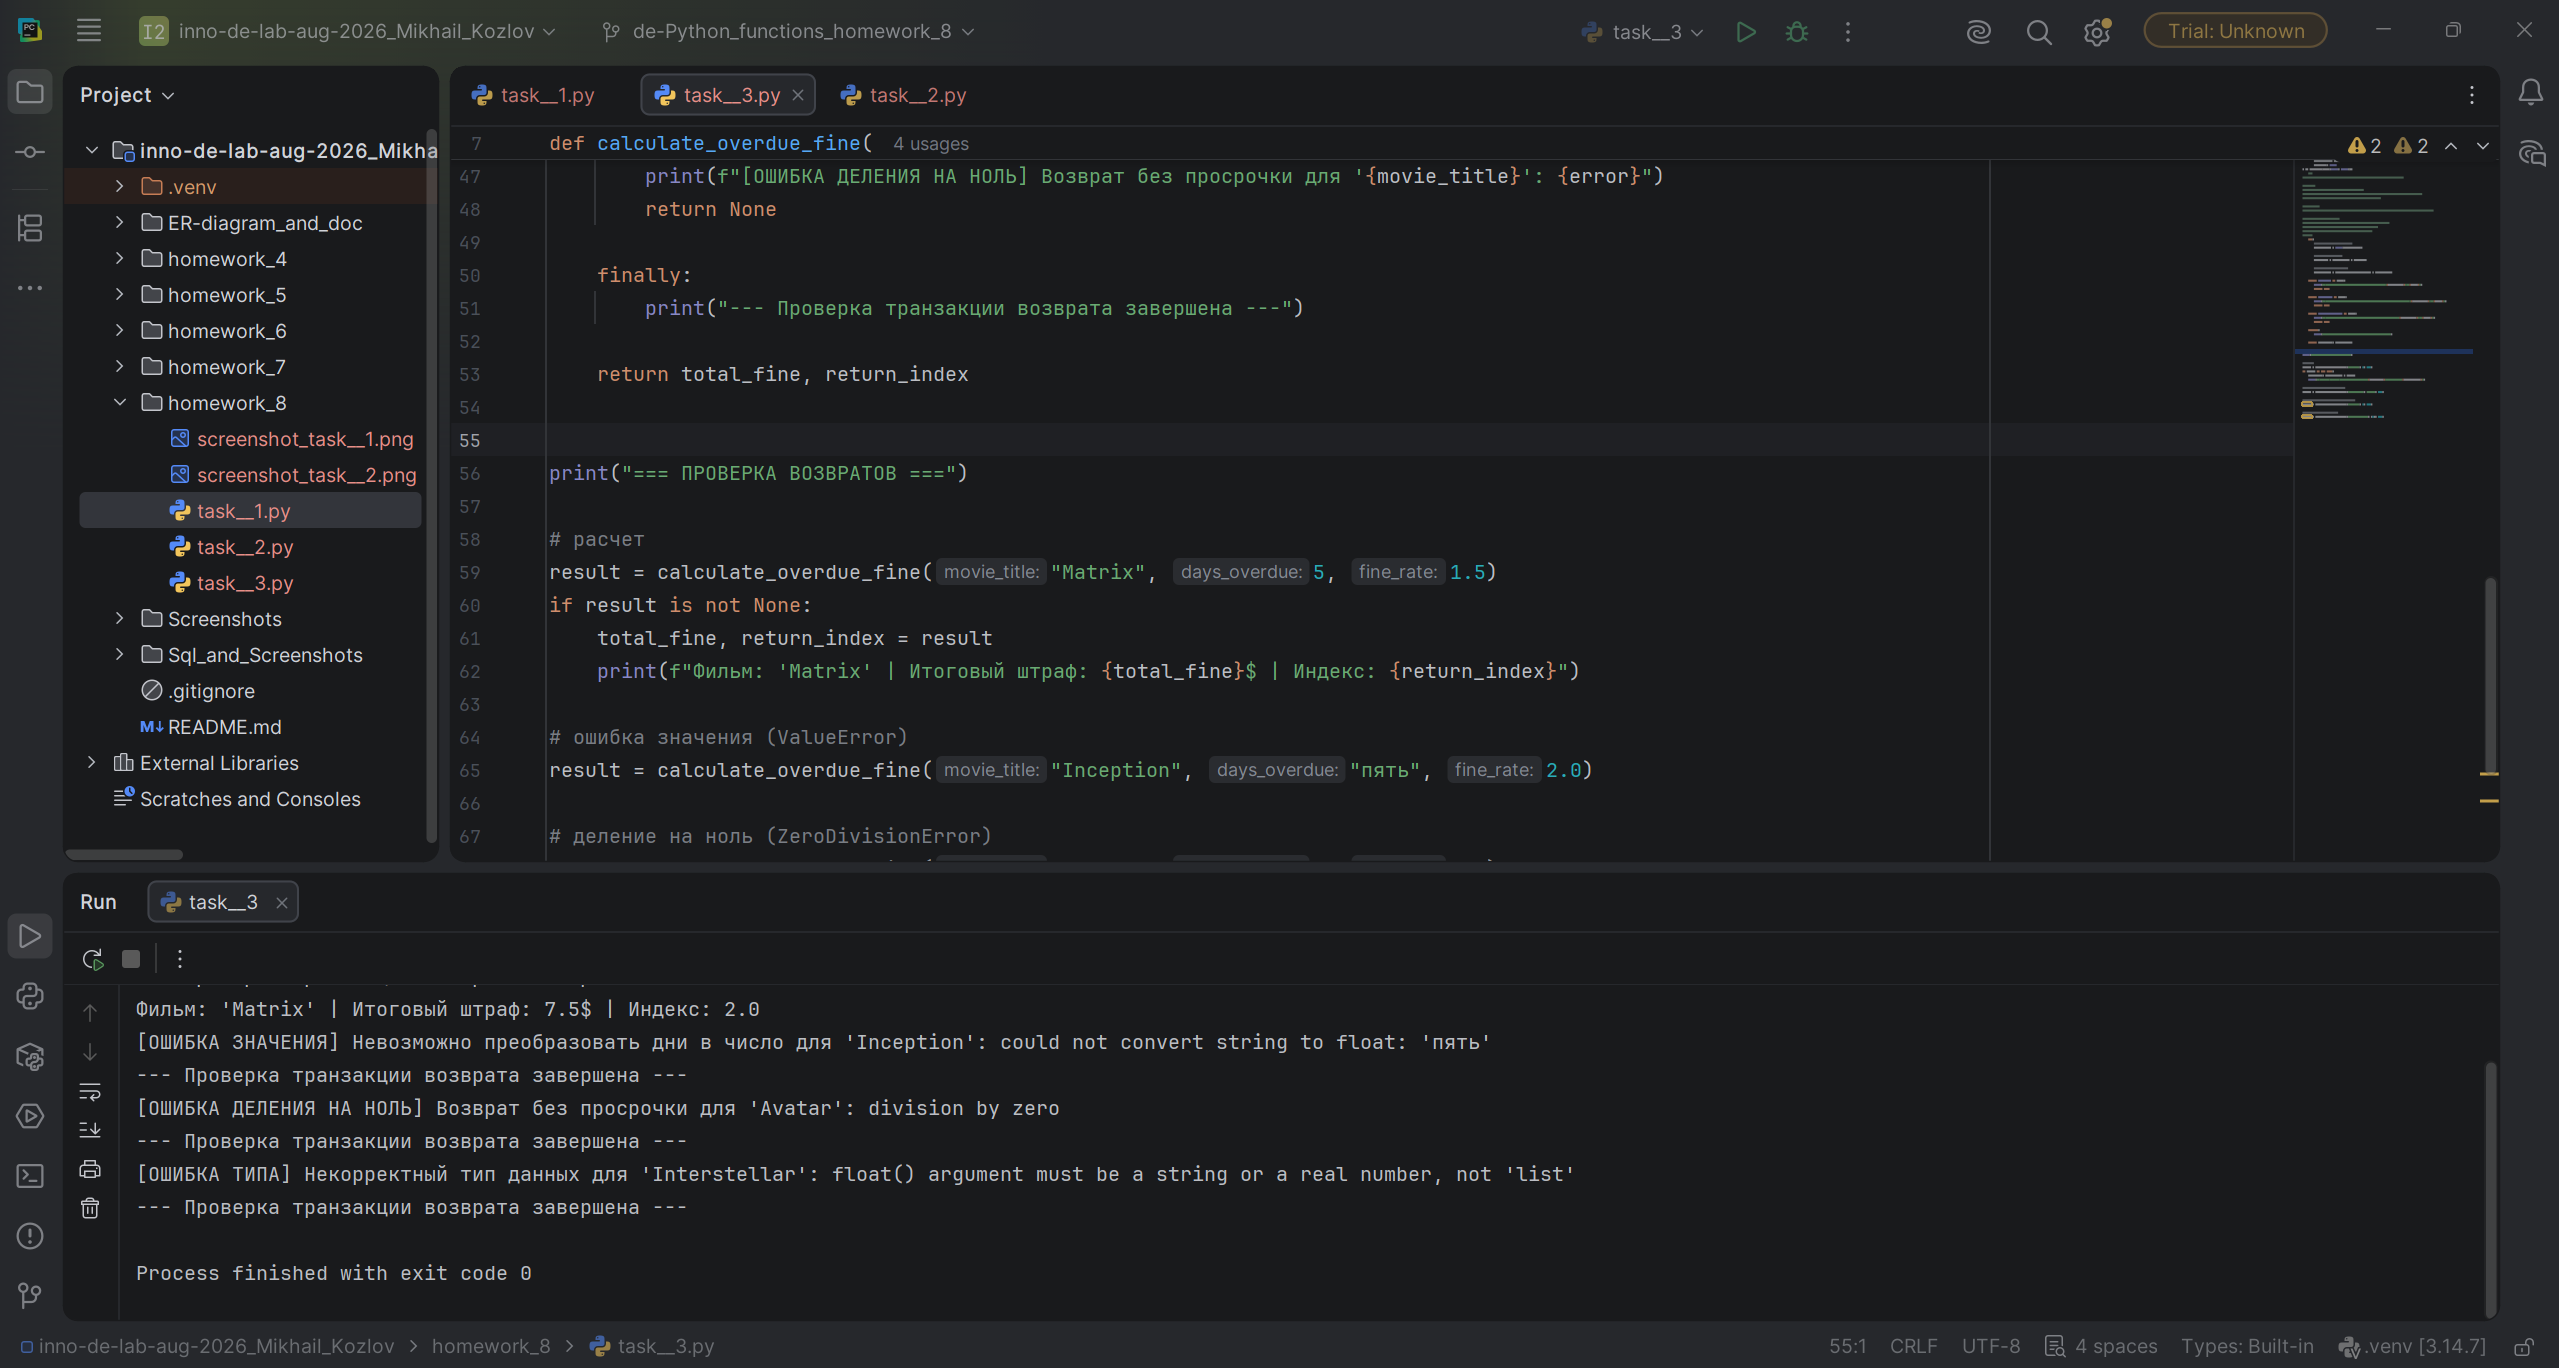
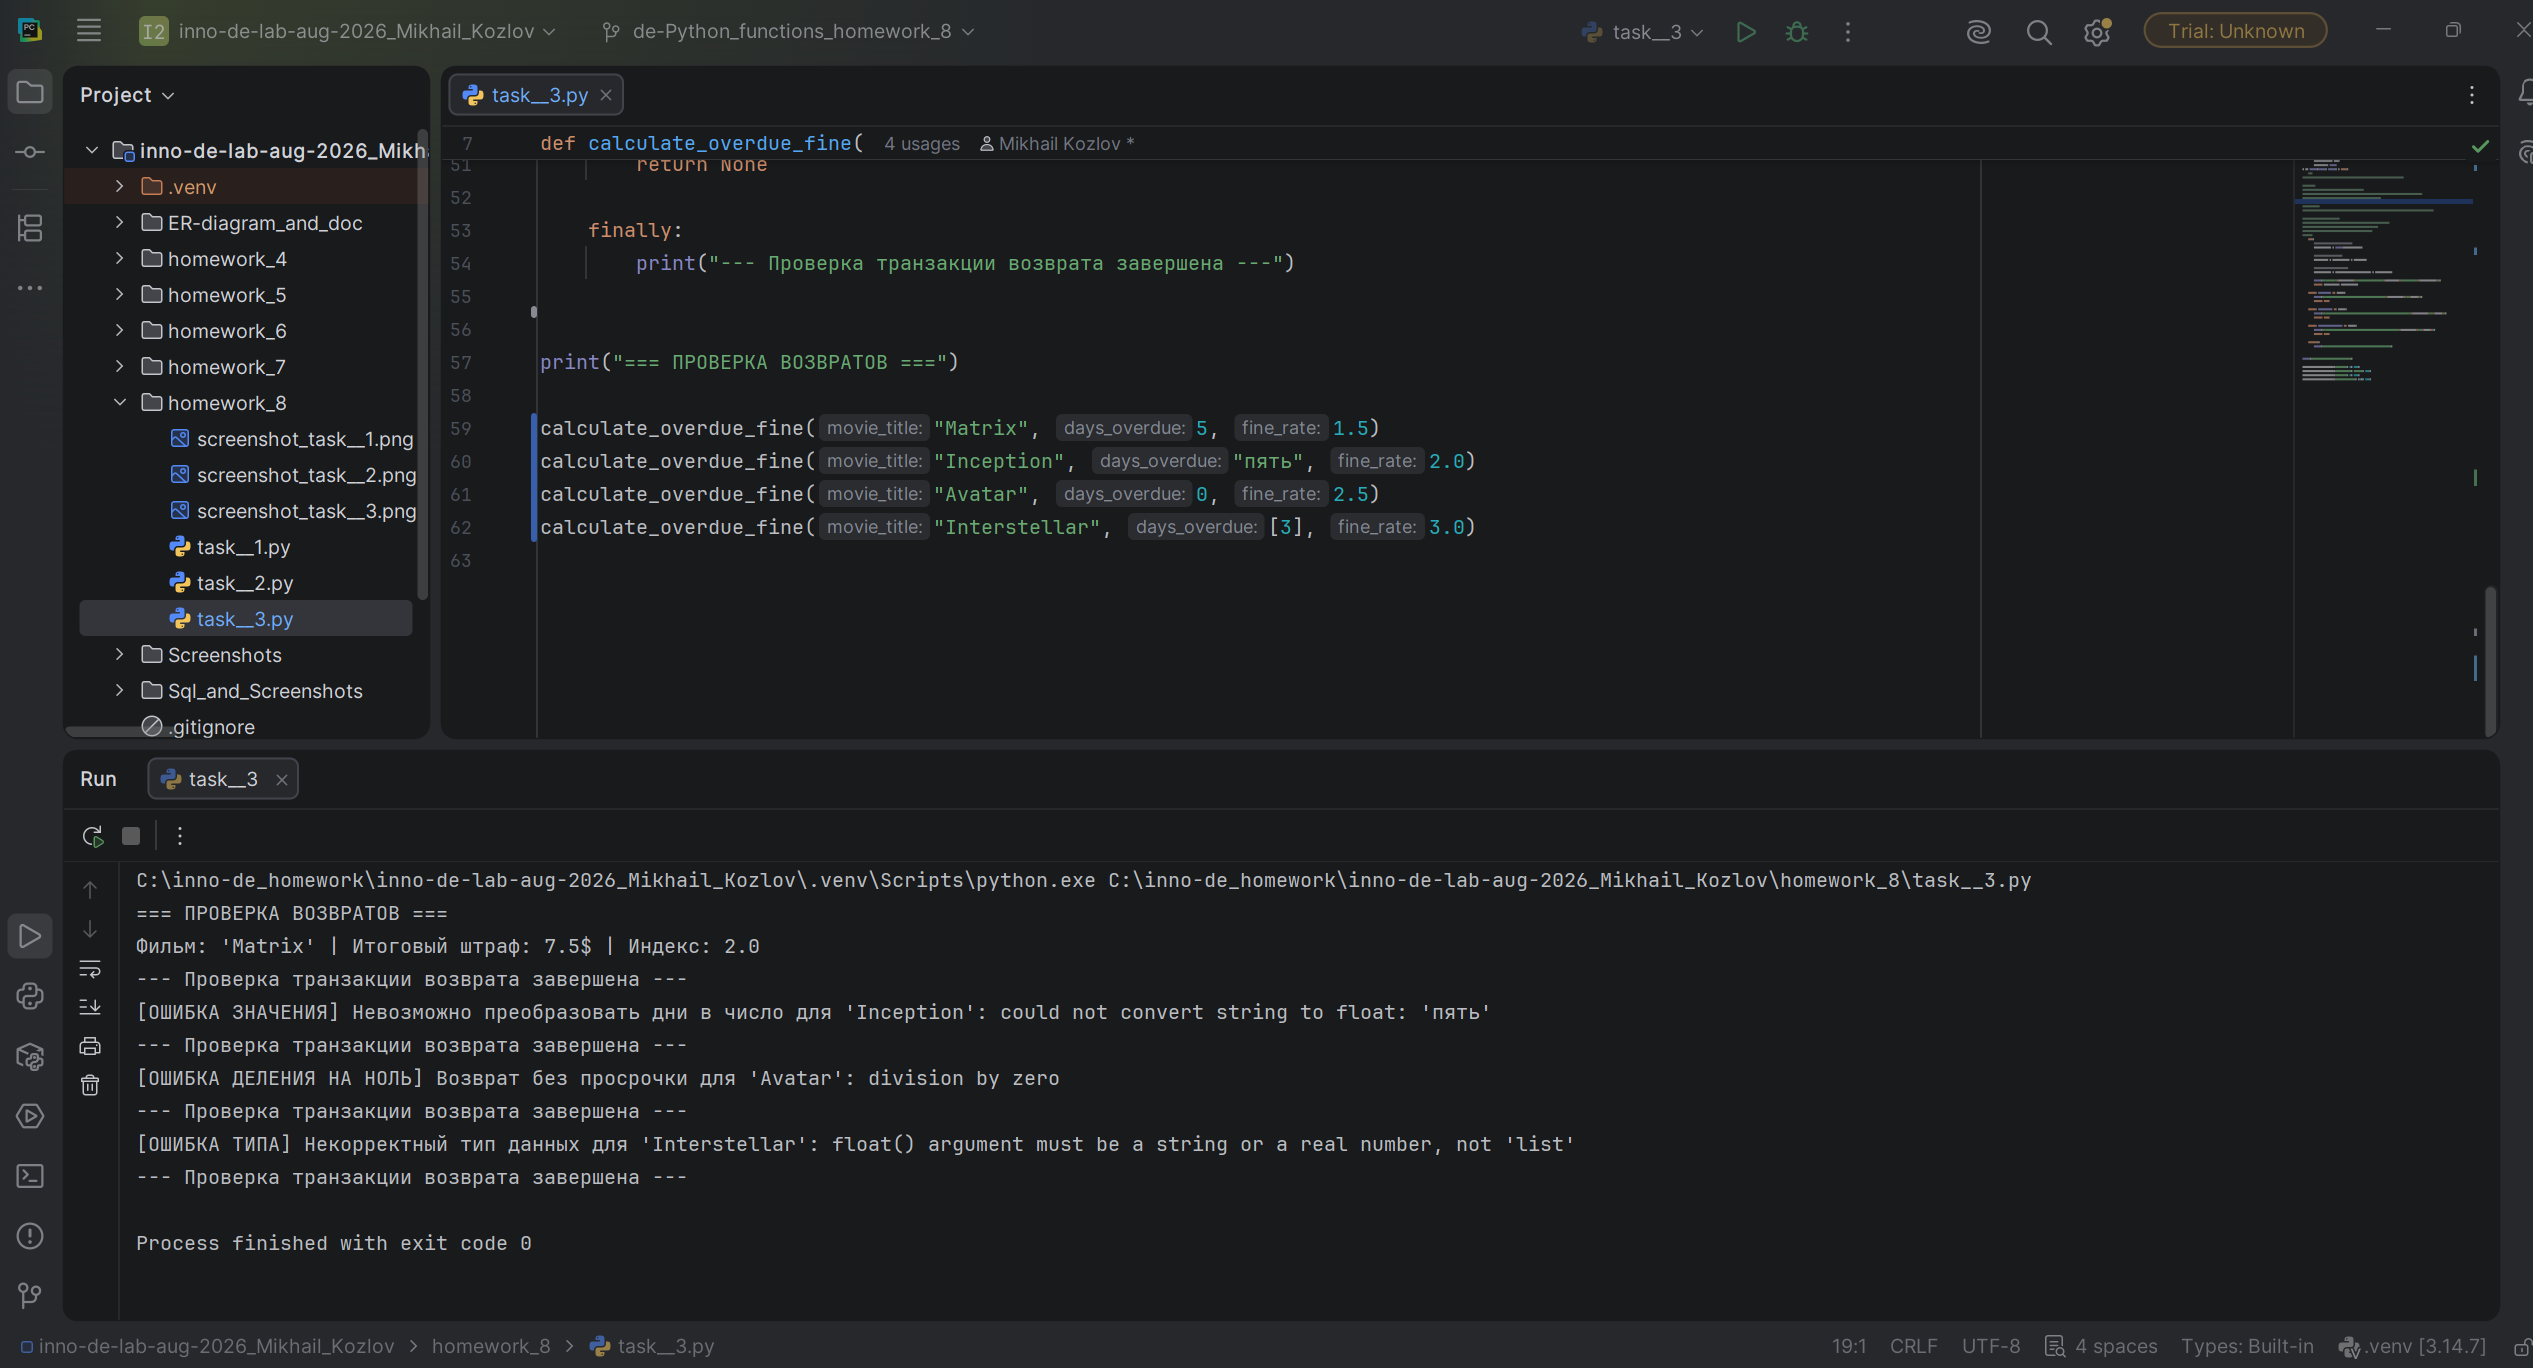
fix task_3

diff --git a/homework_8/task__3.py b/homework_8/task__3.py
@@ -1,4 +1,4 @@
-from typing import Any, Tuple, Optional
+from typing import Any
 
 # Константа
 DEFAULT_RETURN_INDEX_BASE = 10.0
@@ -8,7 +8,7 @@ def calculate_overdue_fine(
         movie_title: str,
         days_overdue: Any,
         fine_rate: float
-) -> Optional[Tuple[float, float]]:
+) -> tuple[float, float] | None:
     """
     Безопасно рассчитывает штраф за просрочку и индекс оборачиваемости.
 
@@ -35,6 +35,9 @@ def calculate_overdue_fine(
         # индекс оборачиваемости
         return_index = DEFAULT_RETURN_INDEX_BASE / numeric_days
 
+        print(f"Фильм: '{movie_title}' | Итоговый штраф: {total_fine}$ | Индекс: {return_index}")
+        return total_fine, return_index
+
     except TypeError as error:
         print(f"[ОШИБКА ТИПА] Некорректный тип данных для '{movie_title}': {error}")
         return None
@@ -50,22 +53,10 @@ def calculate_overdue_fine(
     finally:
         print("--- Проверка транзакции возврата завершена ---")
 
-    return total_fine, return_index
-
 
 print("=== ПРОВЕРКА ВОЗВРАТОВ ===")
 
-# расчет
-result = calculate_overdue_fine("Matrix", 5, 1.5)
-if result is not None:
-    total_fine, return_index = result
-    print(f"Фильм: 'Matrix' | Итоговый штраф: {total_fine}$ | Индекс: {return_index}")
-
-# ошибка значения (ValueError)
-result = calculate_overdue_fine("Inception", "пять", 2.0)
-
-# деление на ноль (ZeroDivisionError)
-result = calculate_overdue_fine("Avatar", 0, 2.5)
-
-# ошибка типа (TypeError)
-result = calculate_overdue_fine("Interstellar", [3], 3.0)
+calculate_overdue_fine("Matrix", 5, 1.5)
+calculate_overdue_fine("Inception", "пять", 2.0)
+calculate_overdue_fine("Avatar", 0, 2.5)
+calculate_overdue_fine("Interstellar", [3], 3.0)
